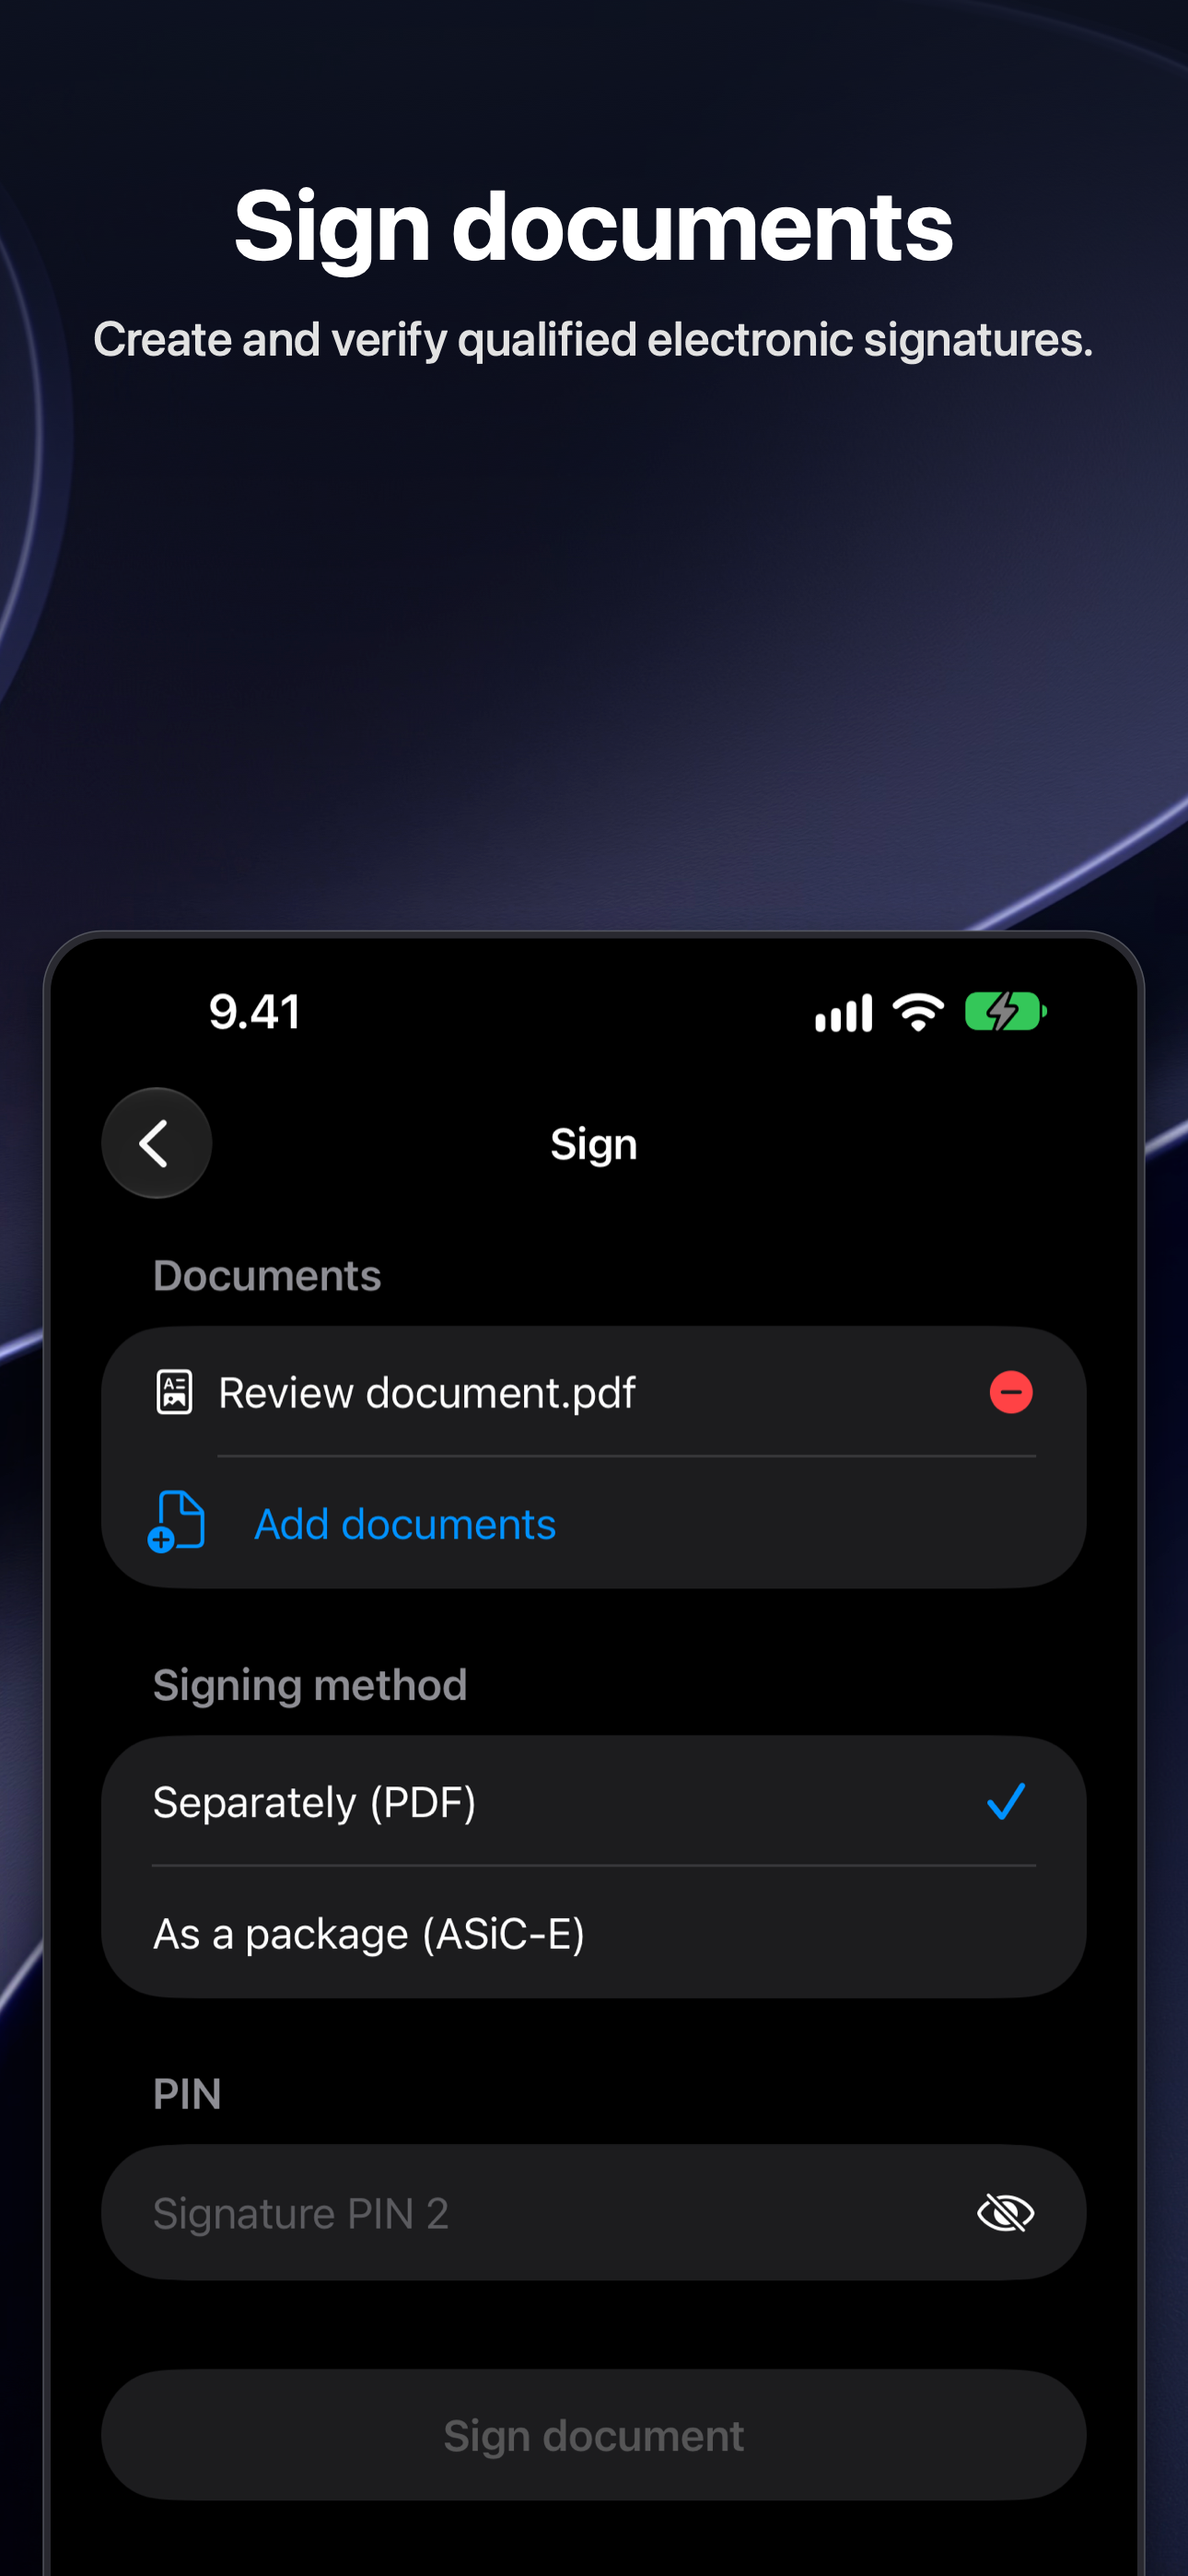
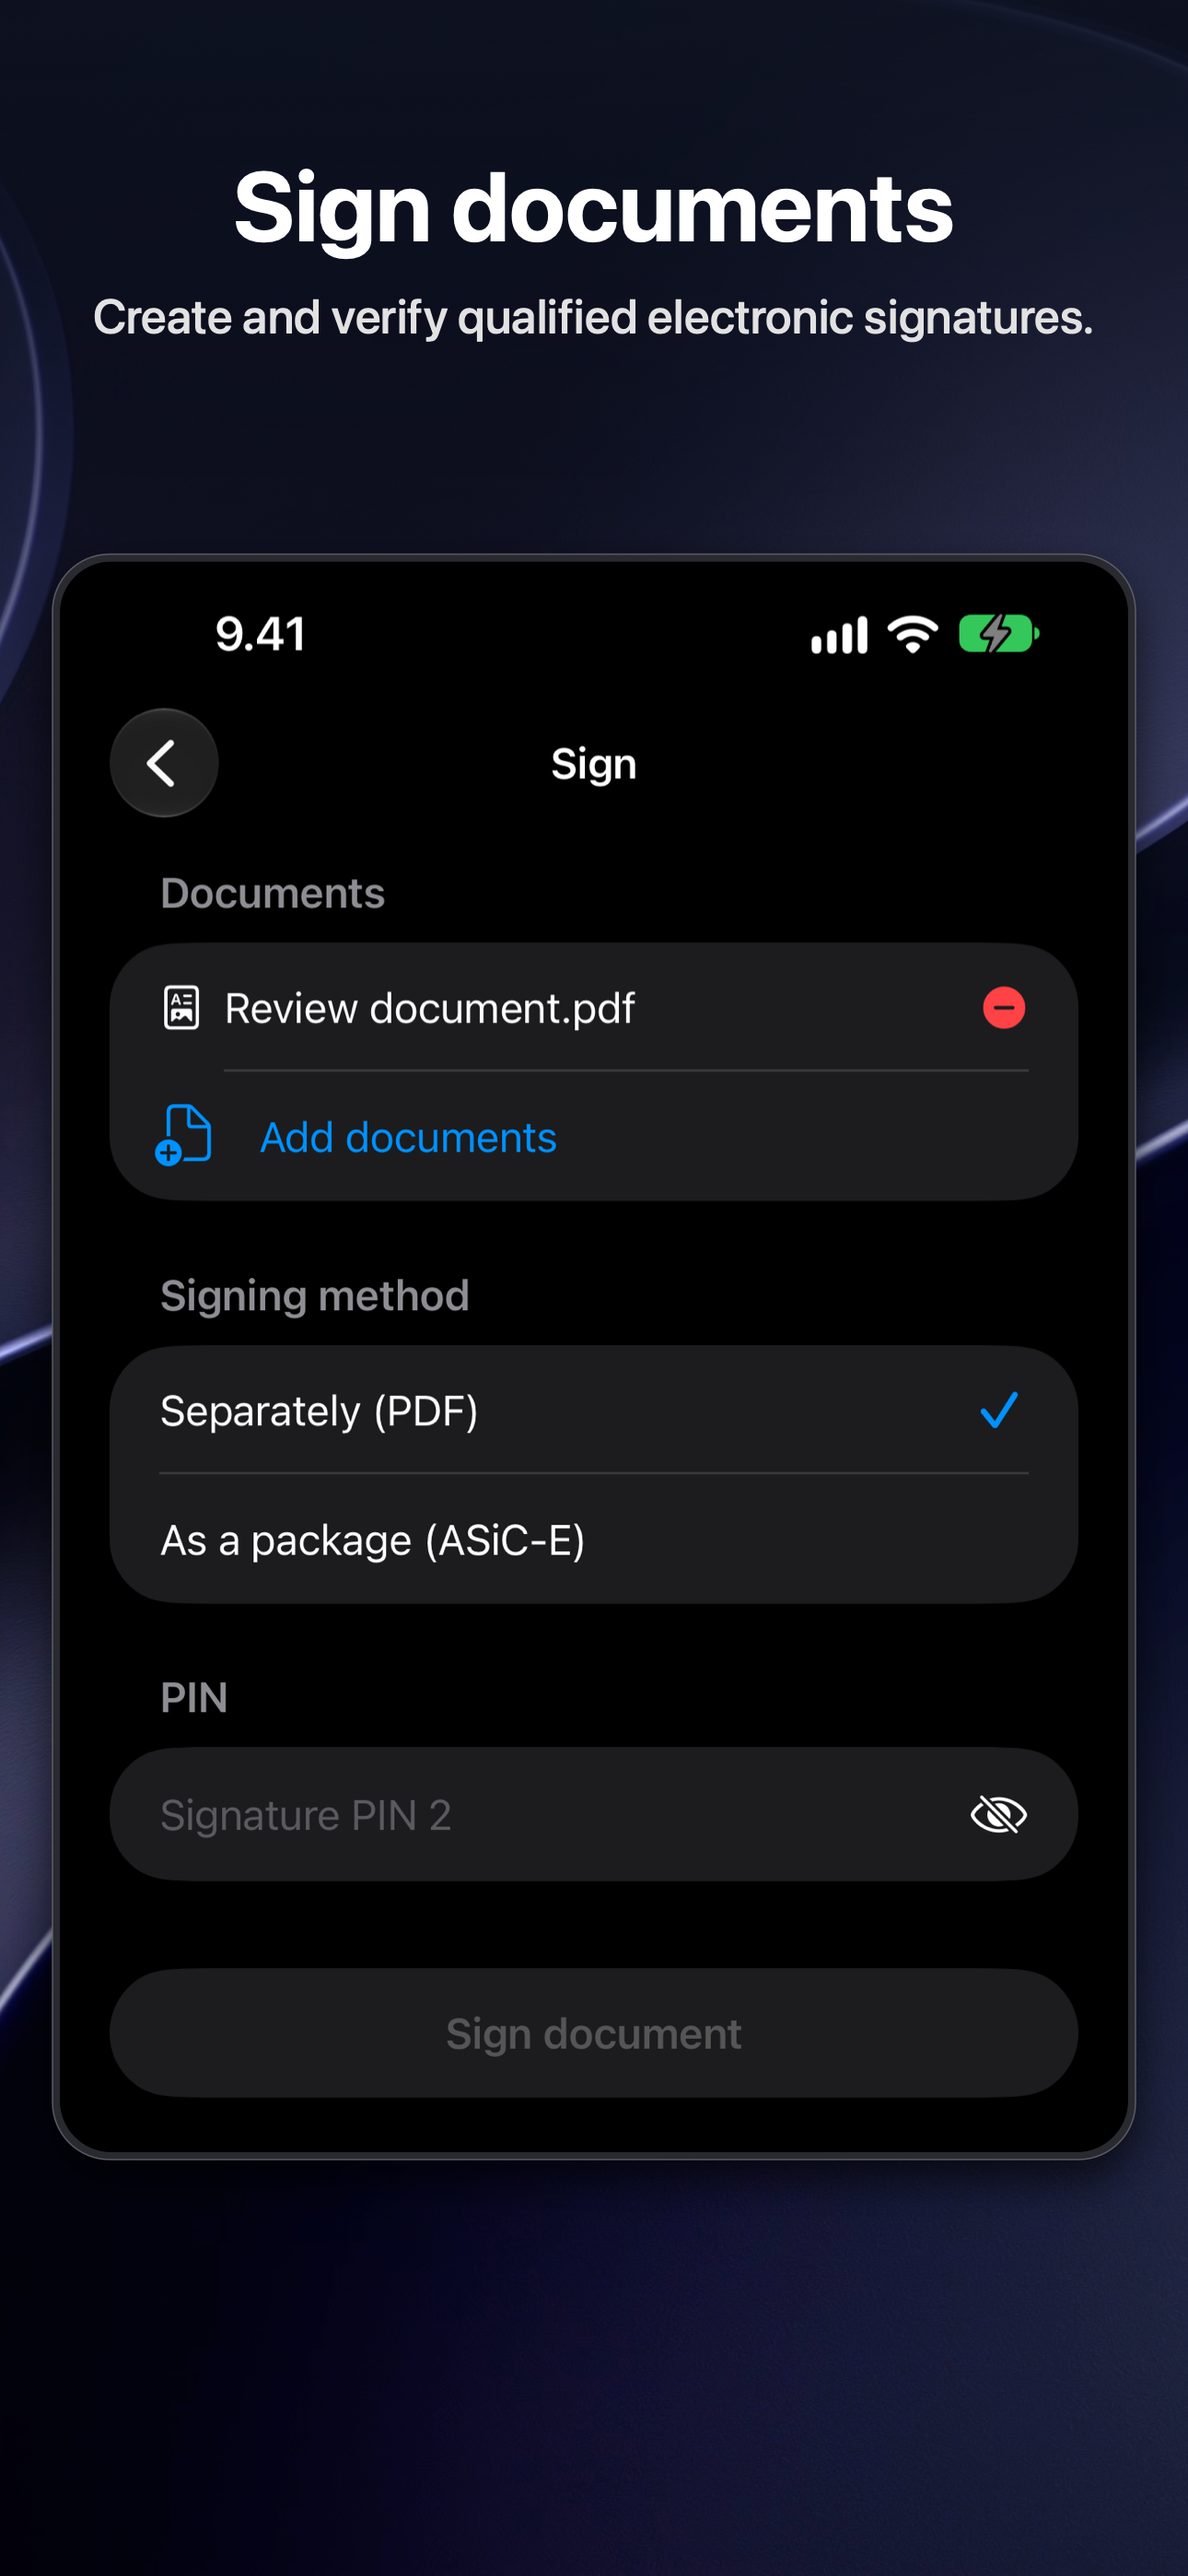
Harmonize iOS and iPadOS screenshots with floating card layout
Crop bottom empty space from mobile captures and present application
frames as self-contained floating cards with rounded corners, subtle
border highlight, and ambient shadow on wallpaper background, matching
the stylish macOS presentation.

Prevent status chip text in remote pairing row from wrapping onto
multiple lines and eliminate the awkward visual gap between the headline
and app presentation frame.

diff --git a/Scripts/generate-store-screenshots.swift b/Scripts/generate-store-screenshots.swift
@@ -352,7 +352,7 @@ func renderIOS(locale: String, slide: SlideData) {
         context.fill(CGRect(x: 0, y: 0, width: width, height: height))
     }
 
-    var currentTopY = CGFloat(height) - 180
+    var currentTopY = CGFloat(height) - 160
 
     // 2. Title
     let titleLength = slide.title.count
@@ -374,7 +374,7 @@ func renderIOS(locale: String, slide: SlideData) {
     let titleHeight = ceil(titleBounding.height)
     let titleRect = CGRect(x: 50, y: currentTopY - titleHeight, width: CGFloat(width - 100), height: titleHeight)
     (slide.title as NSString).draw(in: titleRect, withAttributes: titleAttr)
-    currentTopY -= (titleHeight + 32)
+    currentTopY -= (titleHeight + 28)
 
     // 3. Subtitle
     let subLength = slide.subtitle.count
@@ -400,11 +400,12 @@ func renderIOS(locale: String, slide: SlideData) {
     // 4. Phone Screen presentation
     let phoneURL = assetsDir.appendingPathComponent(slide.assetName)
     if let phoneImg = NSImage(contentsOf: phoneURL) {
-        let targetWidth: CGFloat = 1180
-        let targetHeight: CGFloat = targetWidth * (2796.0 / 1290.0) // 2557.55
+        let rawCropHeight: CGFloat = 1920
+        let targetWidth: CGFloat = 1160
+        let targetHeight = targetWidth * (rawCropHeight / 1290.0) // ~1726.5 px
         let phoneX = (CGFloat(width) - targetWidth) / 2
-        let phoneY: CGFloat = -780
-        let cornerRadius: CGFloat = 58.0
+        let phoneY: CGFloat = 460
+        let cornerRadius: CGFloat = 56.0
 
         // Bezel & Ambient Shadow
         context.saveGState()
@@ -413,9 +414,9 @@ func renderIOS(locale: String, slide: SlideData) {
         let bezelPath = NSBezierPath(roundedRect: bezelRect, xRadius: bezelRadius, yRadius: bezelRadius)
 
         let shadow = NSShadow()
-        shadow.shadowColor = NSColor(calibratedWhite: 0.0, alpha: 0.58)
+        shadow.shadowColor = NSColor(calibratedWhite: 0.0, alpha: 0.65)
         shadow.shadowBlurRadius = 50.0
-        shadow.shadowOffset = NSSize(width: 0, height: -24)
+        shadow.shadowOffset = NSSize(width: 0, height: -22)
         shadow.set()
 
         NSColor(calibratedRed: 0.12, green: 0.12, blue: 0.14, alpha: 1.0).setFill()
@@ -426,7 +427,7 @@ func renderIOS(locale: String, slide: SlideData) {
         context.saveGState()
         let highlightPath = NSBezierPath(roundedRect: bezelRect, xRadius: bezelRadius, yRadius: bezelRadius)
         highlightPath.lineWidth = 1.5
-        NSColor(calibratedRed: 0.30, green: 0.31, blue: 0.34, alpha: 0.8).setStroke()
+        NSColor(calibratedRed: 0.32, green: 0.33, blue: 0.36, alpha: 0.85).setStroke()
         highlightPath.stroke()
         context.restoreGState()
 
@@ -435,7 +436,12 @@ func renderIOS(locale: String, slide: SlideData) {
         let screenRect = CGRect(x: phoneX, y: phoneY, width: targetWidth, height: targetHeight)
         let screenPath = NSBezierPath(roundedRect: screenRect, xRadius: cornerRadius, yRadius: cornerRadius)
         screenPath.addClip()
-        phoneImg.draw(in: screenRect)
+
+        let imgW = phoneImg.size.width
+        let imgH = phoneImg.size.height
+        let sourceCropH = imgH * (rawCropHeight / 2796.0)
+        let fromRect = CGRect(x: 0, y: imgH - sourceCropH, width: imgW, height: sourceCropH)
+        phoneImg.draw(in: screenRect, from: fromRect, operation: .copy, fraction: 1.0)
 
         NSColor(calibratedWhite: 0.0, alpha: 0.25).setStroke()
         screenPath.lineWidth = 1.0
@@ -498,7 +504,7 @@ func renderIPad(locale: String, slide: SlideData) {
         context.fill(CGRect(x: 0, y: 0, width: width, height: height))
     }
 
-    var currentTopY = CGFloat(height) - 280
+    var currentTopY = CGFloat(height) - 200
 
     // 2. Title
     let titleLength = slide.title.count
@@ -546,22 +552,23 @@ func renderIPad(locale: String, slide: SlideData) {
     // 4. iPad Screen presentation
     let ipadURL = assetsDir.appendingPathComponent(slide.assetName)
     if let ipadImg = NSImage(contentsOf: ipadURL) {
-        let targetWidth: CGFloat = 1920
-        let targetHeight: CGFloat = targetWidth * (2732.0 / 2048.0) // ~2561.25
+        let rawCropHeight: CGFloat = 1340
+        let targetWidth: CGFloat = 1860
+        let targetHeight = targetWidth * (rawCropHeight / 2048.0) // ~1217 px
         let ipadX = (CGFloat(width) - targetWidth) / 2
-        let ipadY: CGFloat = -1200
+        let ipadY: CGFloat = 720
         let cornerRadius: CGFloat = 44.0
 
         // Bezel & Ambient Shadow
         context.saveGState()
         let bezelRect = CGRect(x: ipadX - 10, y: ipadY - 10, width: targetWidth + 20, height: targetHeight + 20)
-        let bezelRadius = cornerRadius + 8.0
+        let bezelRadius = cornerRadius + 6.0
         let bezelPath = NSBezierPath(roundedRect: bezelRect, xRadius: bezelRadius, yRadius: bezelRadius)
 
         let shadow = NSShadow()
-        shadow.shadowColor = NSColor(calibratedWhite: 0.0, alpha: 0.58)
+        shadow.shadowColor = NSColor(calibratedWhite: 0.0, alpha: 0.65)
         shadow.shadowBlurRadius = 55.0
-        shadow.shadowOffset = NSSize(width: 0, height: -28)
+        shadow.shadowOffset = NSSize(width: 0, height: -24)
         shadow.set()
 
         NSColor(calibratedRed: 0.12, green: 0.12, blue: 0.14, alpha: 1.0).setFill()
@@ -572,7 +579,7 @@ func renderIPad(locale: String, slide: SlideData) {
         context.saveGState()
         let highlightPath = NSBezierPath(roundedRect: bezelRect, xRadius: bezelRadius, yRadius: bezelRadius)
         highlightPath.lineWidth = 1.5
-        NSColor(calibratedRed: 0.30, green: 0.31, blue: 0.34, alpha: 0.8).setStroke()
+        NSColor(calibratedRed: 0.32, green: 0.33, blue: 0.36, alpha: 0.85).setStroke()
         highlightPath.stroke()
         context.restoreGState()
 
@@ -581,7 +588,12 @@ func renderIPad(locale: String, slide: SlideData) {
         let screenRect = CGRect(x: ipadX, y: ipadY, width: targetWidth, height: targetHeight)
         let screenPath = NSBezierPath(roundedRect: screenRect, xRadius: cornerRadius, yRadius: cornerRadius)
         screenPath.addClip()
-        ipadImg.draw(in: screenRect)
+
+        let imgW = ipadImg.size.width
+        let imgH = ipadImg.size.height
+        let sourceCropH = imgH * (rawCropHeight / 2732.0)
+        let fromRect = CGRect(x: 0, y: imgH - sourceCropH, width: imgW, height: sourceCropH)
+        ipadImg.draw(in: screenRect, from: fromRect, operation: .copy, fraction: 1.0)
 
         NSColor(calibratedWhite: 0.0, alpha: 0.25).setStroke()
         screenPath.lineWidth = 1.0

diff --git a/Sources/App/CardCredentialsView+RemotePairing.swift b/Sources/App/CardCredentialsView+RemotePairing.swift
@@ -145,6 +145,8 @@ import SwiftUI
       .buttonStyle(.bordered)
       .tint(isActivelyConnected ? .green : .secondary)
       .controlSize(.small)
+      .lineLimit(1)
+      .fixedSize(horizontal: true, vertical: false)
       .allowsHitTesting(!isActivelyConnected)
     }
 
